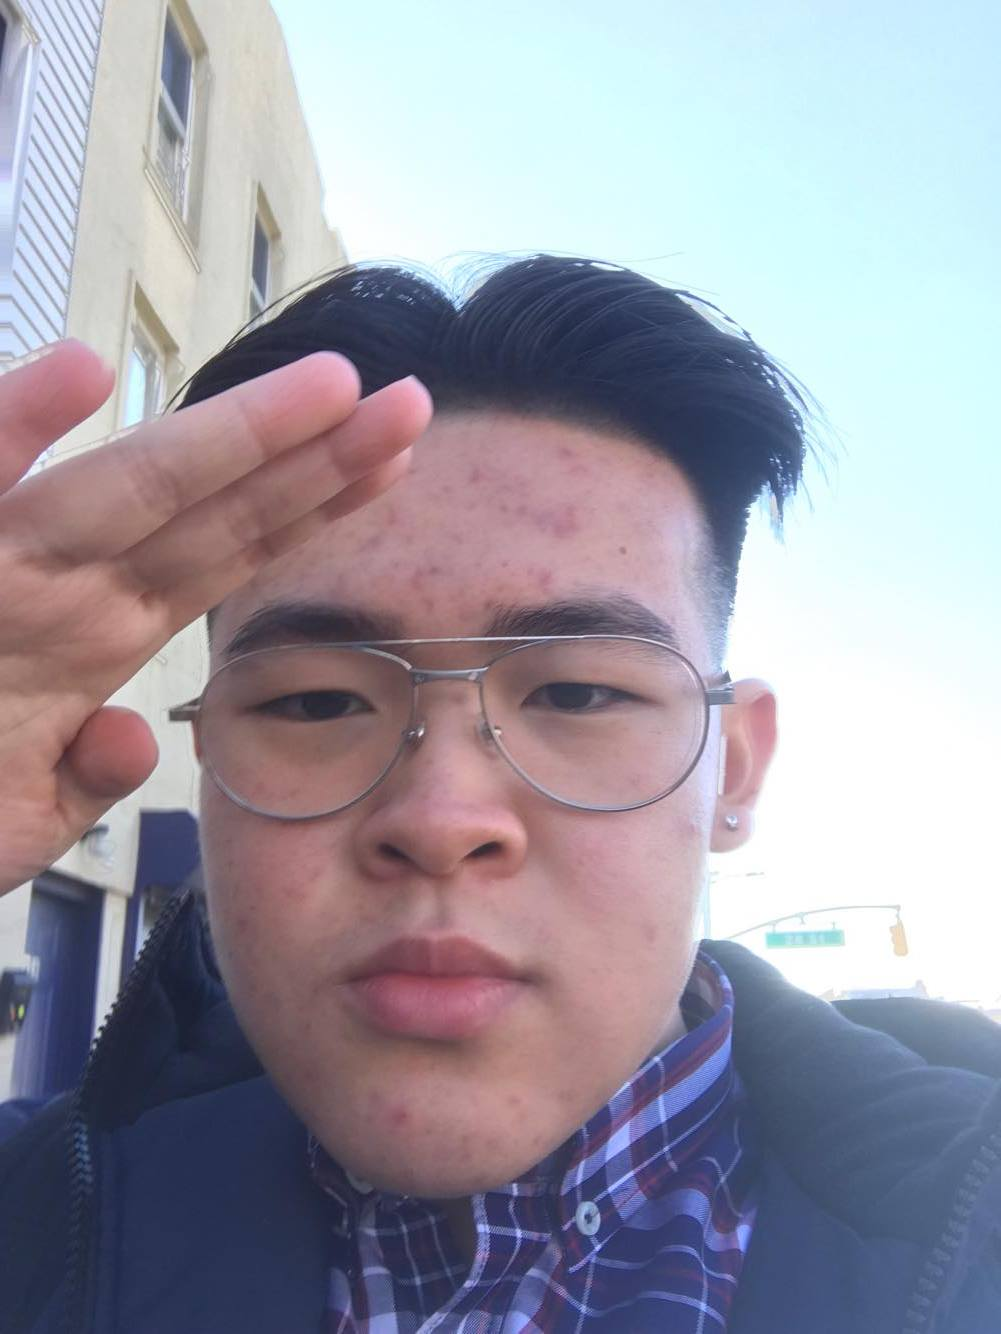
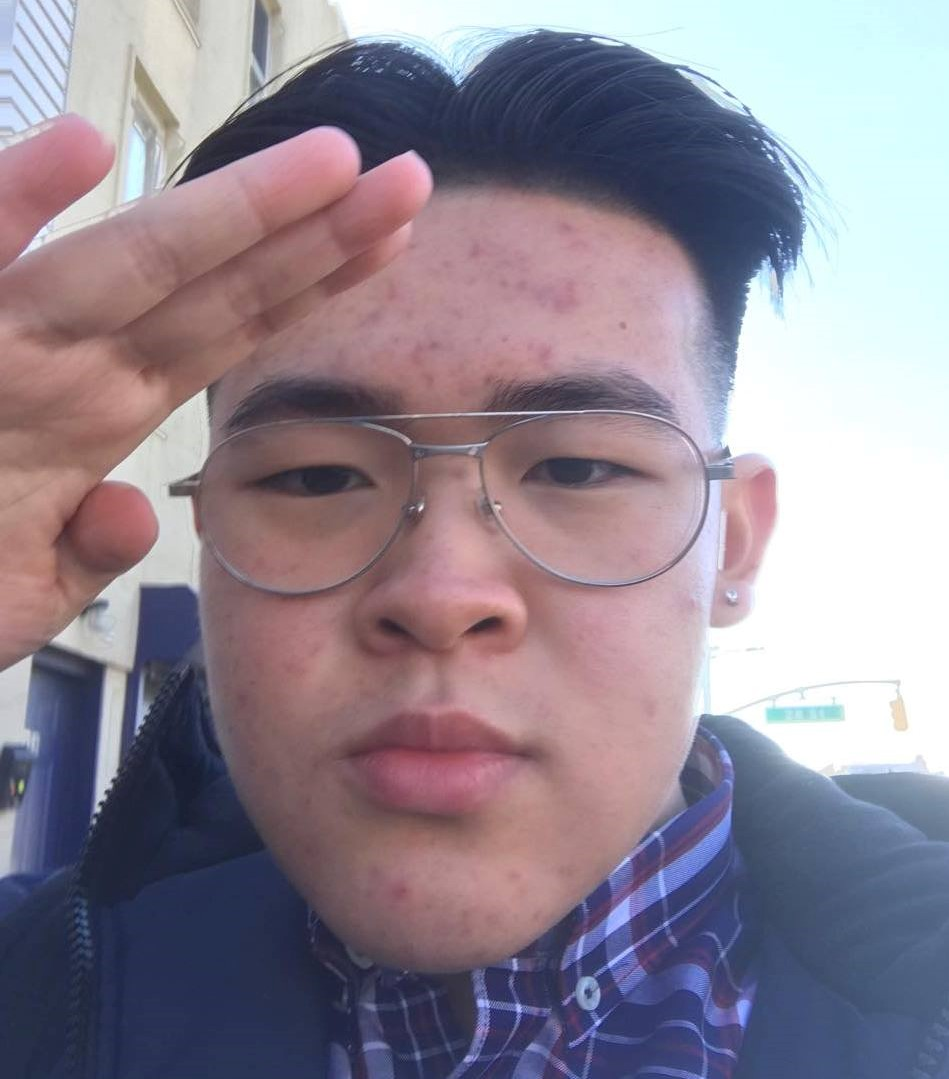
References and Human page done
Added reference pages with URLs to the pages 
Human page completed with picture and description 
Minor changes: 
            removed underline from URLs
            links do not open new tab

diff --git a/WebDev/zoo.html b/WebDev/zoo.html
@@ -12,21 +12,30 @@
         <h1>Planet of the Primates</h1>
         <div class="box-1">
         <p1>
-            <div class="urlSize"><a href= "http://www.google.com" target="_blank">Chimpanzee</a></div>
+            <div class="urlSize"><a href= "http://www.google.com">Chimpanzee</a></div>
             <div class="box-2"><img src="chimp.jpg"></div>
         </p1>
         <p2>
-            <div class="urlSize"><a href="gorilla.html" target="_blank">Gorilla</a></div>
+            <div class="urlSize"><a href="gorilla.html">Gorilla</a></div>
             <div class="box-2"><img src="gorilla.jpg" width="823" height="463"></div>
         </p2>
         <p3>
-            <div class="urlSize"><a href="http://google.com" target="_blank">Monkey</a></div>
+            <div class="urlSize"><a href="http://google.com">Monkey</a></div>
             <div class="box-2"><img src="monkgee.jpg" width="823" height="463"></div>
         </p3>
         <p4>
-            <div class="urlSize"><a href="http://google.com" target="_blank">Human</a></div>
+            <div class="urlSize"><a href="stanley.html">Human</a></div>
             <div class="box-2"><img src="asdf.jpg" width="823" height="463"></div>
         </p4>
+        <br>
+        <br>
+        <br>
+        <br>
+        <p5>
+            <a href="reference.html">References</a>
+        </p5>
+        <br>
+        <br>
         </div>
     </body>
     </div>

diff --git a/WebDev/stanley.html b/WebDev/stanley.html
@@ -1,0 +1,33 @@
+<!DOCTYPE html>
+
+<html>
+    <div class="container">
+    <head>
+        <meta charset="utf-8">
+        <meta name="viewport" content="width-device-width, initial scale=1">
+        <title>Stanley</title>
+        <link rel="stylesheet" type="text/css" href="gStyle.css">
+    </head>
+    <body>
+        <h1>Stanley</h1>
+        <p1>
+            <div class="box-2"><img src="stanleyun.jpg"></div>
+        </p1>
+        <div class = "pMargin">
+            <p2>
+            This is Stanley. This is a rare type of human being. He is blessed with the ability to eat while sleeping! Quite extraordinary isn't it?
+            He is also a sneaker and streetwear enthusiast; a hype beast as the young'uns would call them. 
+            Stanley is known to be a very social creature, however, Stanley, unlike most social creatures can survive without interaction. 
+            Quite a versatile creature if you think about it. 
+            <br>
+            If you want to learn more about Stanley you can observe his habits and interact with him at:
+            <br>
+            stanley.wong10@myhunter.cuny.edu
+            <br>
+            <br>
+            </p2>
+        </div>
+        <p3><a href="zoo.html">Return to front page</a></p3>
+    </body>
+    </div>
+</html>

diff --git a/WebDev/reference.html b/WebDev/reference.html
@@ -1,0 +1,44 @@
+<!DOCTYPE html>
+
+<html>
+    <div class=container>
+    <head>
+        <meta charset="utf-8">
+        <meta name="viewport" content="width-device-width, initial scale=1">
+        <title>References</title>
+        <link rel="stylesheet" type="text/css" href="style.css">
+    </head>
+    <body>
+        <h1>References</h1>
+        <div class=rSize>
+        <h2>Chimpanzee</h2>
+        <p1>
+            
+        </p1>
+        <hr>
+        <h2>Gorilla</h2>
+        <p2>
+            <a href="https://www.livescience.com/27337-gorilla-facts.html">Live Science Gorilla Facts</a>
+            <br>
+            <a href="https://www.worldwildlife.org/species/gorilla">Gorilla Species</a>
+            <br>
+            <a href="https://www.wwf.org.uk/learn/fascinating-facts/gorillas">Top 10 Facts About Mountain Gorillas</a>
+            <br>
+        </p2>
+        <hr>
+        <h2>Monkey</h2>
+        <p3>
+
+        </p3>
+        <hr>
+        <h2>Stanley</h2>
+        <p4>
+            stanley.wong10@myhunter.cuny.edu
+        </p4></div>
+    </body>
+    <br>
+    <br>
+    <br>
+    <p3><a href="zoo.html">Return to front page</a></p3>
+    </div>
+</html>

diff --git a/WebDev/style.css b/WebDev/style.css
@@ -21,3 +21,15 @@ h1{
 .urlSize{
     font: bold 36px Arial, Helvetica, sans-serif;
 }
+
+.rSize{
+    font: bold 20px Arial, Helvetica, sans-serif;
+}
+
+h2{
+    text-decoration: underline;
+}
+
+a:link{
+    text-decoration: none;
+}

diff --git a/WebDev/gStyle.css b/WebDev/gStyle.css
@@ -2,7 +2,7 @@
     display: block;
     margin-left: auto;
     margin-right: auto;
-    width: 40%
+    width: 50%
 }
 
 .container{
